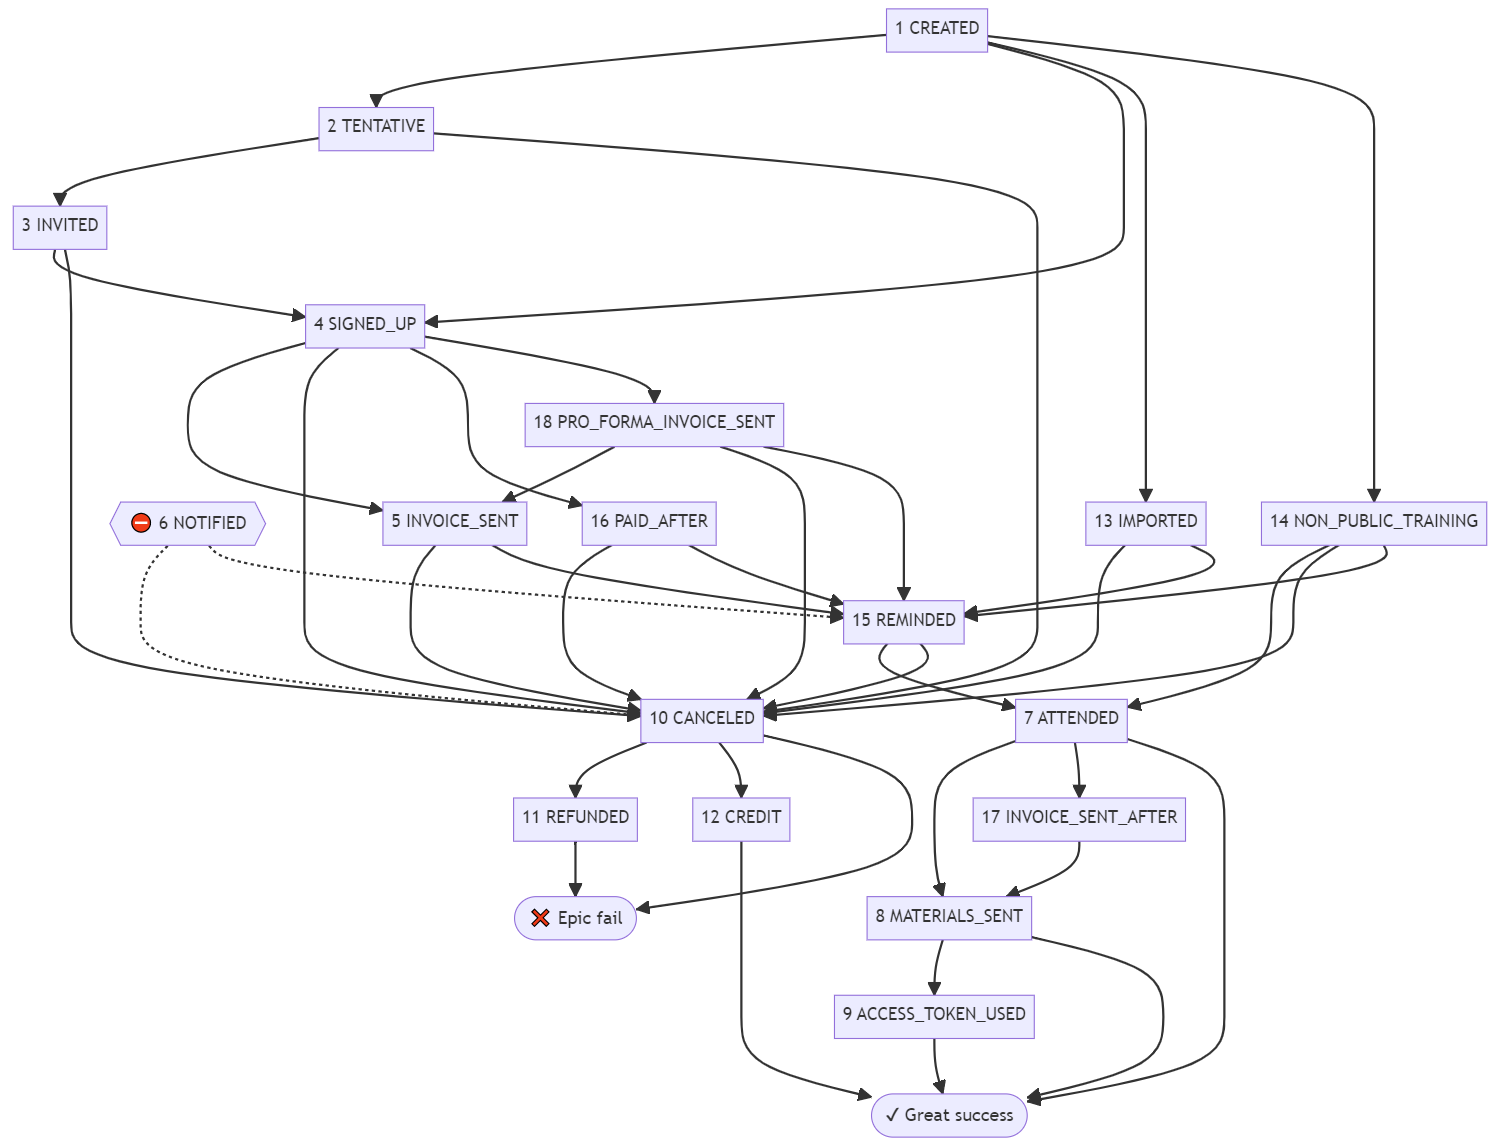
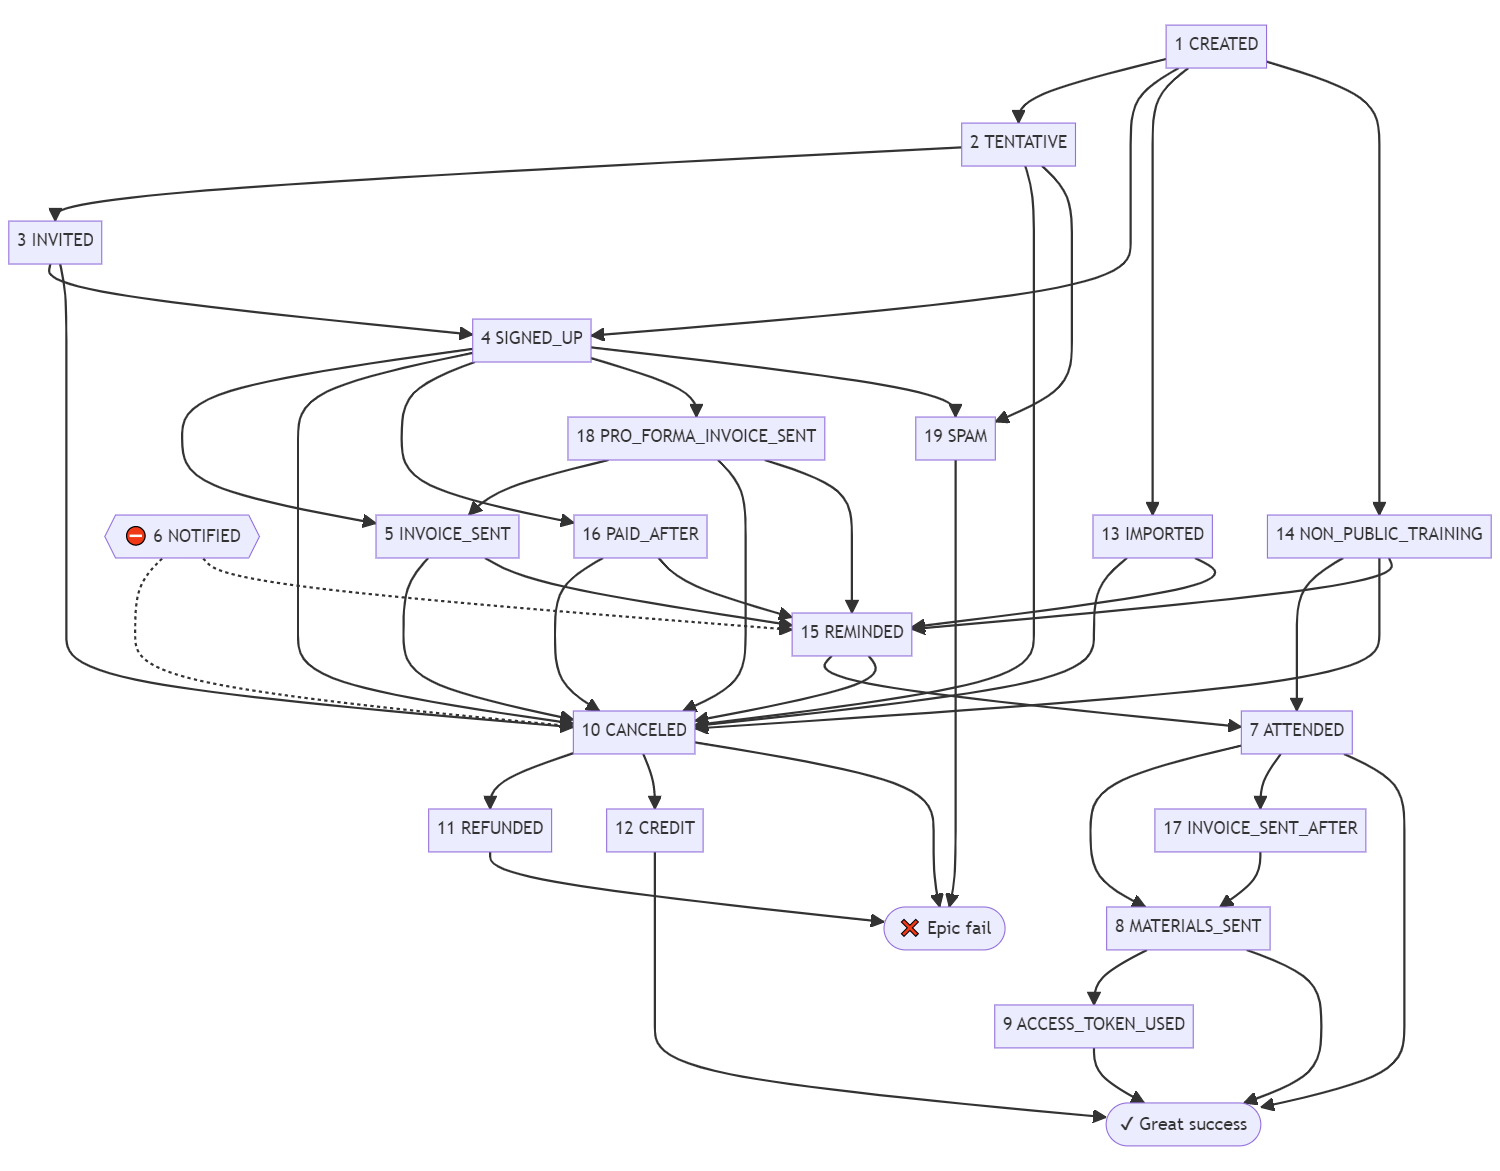
Add new SPAM status
Some folks like to spam or pentest the training signup form and the new status would hide those applications completely.

diff --git a/site/app/Training/Applications.php b/site/app/Training/Applications.php
@@ -133,8 +133,10 @@ class Applications
 					JOIN training_application_status s ON a.key_status = s.id_status
 					JOIN training_application_sources sr ON a.key_source = sr.id_source
 				WHERE
-					key_date = ?',
+					key_date = ?
+					AND s.status != ?',
 				$dateId,
+				Statuses::STATUS_SPAM,
 			);
 			if ($this->byDate[$dateId]) {
 				$discardedStatuses = $this->trainingStatuses->getDiscardedStatuses();

diff --git a/site/app/Training/Statuses.php b/site/app/Training/Statuses.php
@@ -30,6 +30,7 @@ class Statuses
 	public const STATUS_PAID_AFTER = 'PAID_AFTER';           // 16
 	public const STATUS_INVOICE_SENT_AFTER = 'INVOICE_SENT_AFTER';   // 17
 	public const STATUS_PRO_FORMA_INVOICE_SENT = 'PRO_FORMA_INVOICE_SENT'; // 18
+	public const STATUS_SPAM = 'SPAM'; // 19
 
 	/** @var array<string, int> */
 	private array $statusIds = [];

diff --git a/docs/training_application_flow.md b/docs/training_application_flow.md
@@ -6,12 +6,14 @@ flowchart TD
 	1-->14
 	2[2 TENTATIVE]-->3
 	2-->10
+	2-->19
 	3[3 INVITED]-->4
 	3-->10
 	4[4 SIGNED_UP]-->5
 	4-->10
 	4-->16
 	4-->18
+	4-->19
 	5[5 INVOICE_SENT]-->10
 	5-->15
 	6{{"⛔ 6 NOTIFIED"}}-.->10
@@ -40,4 +42,5 @@ flowchart TD
 	18[18 PRO_FORMA_INVOICE_SENT]-->5
 	18-->10
 	18-->15
+	19[19 SPAM]-->FAIL
 ```
